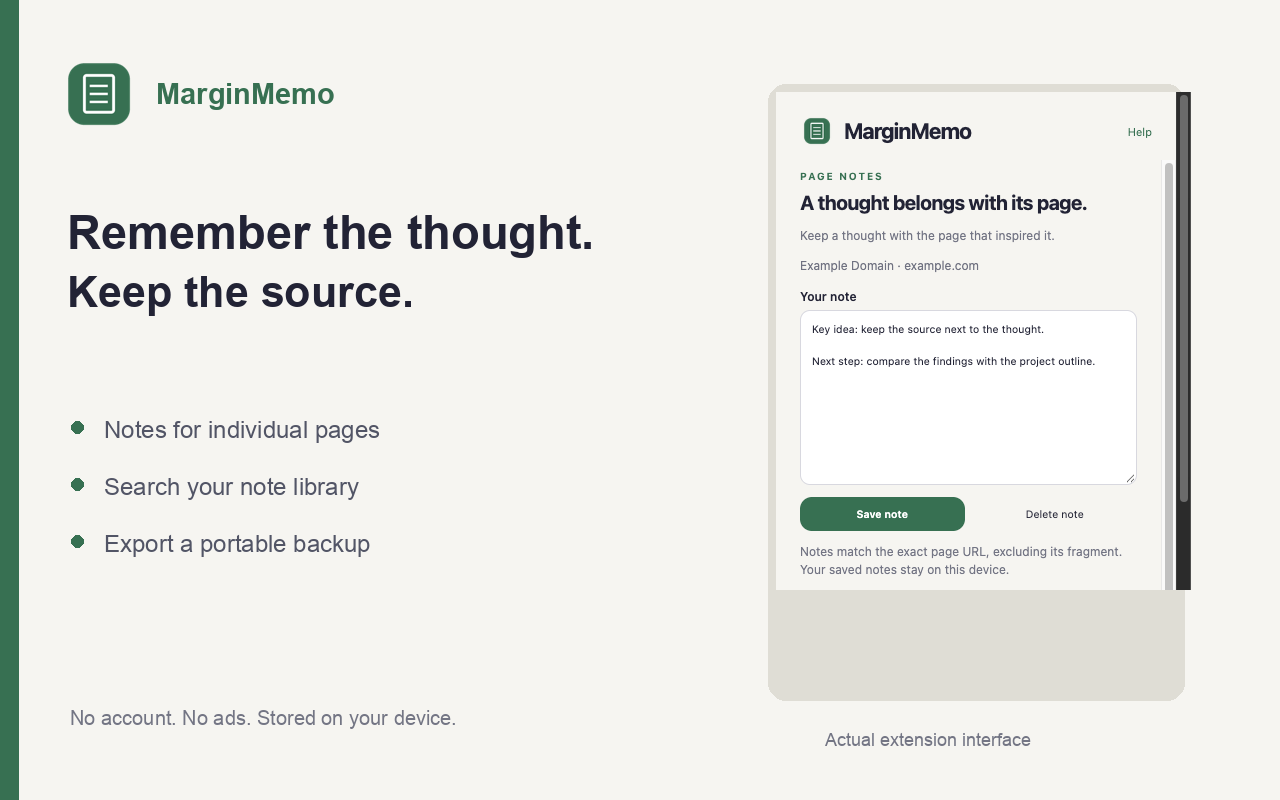
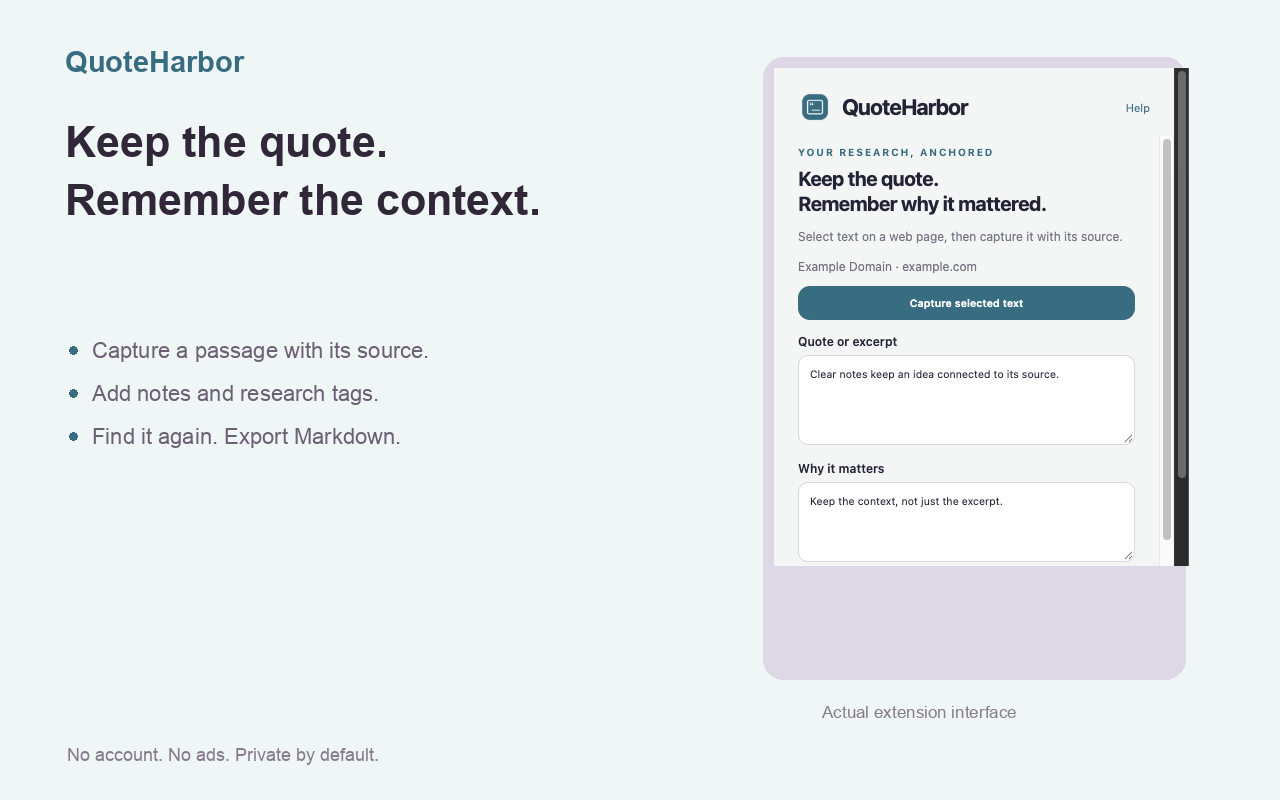
Launch new brand, expanded workflows, and store presentation

diff --git a/extension/library.js b/extension/library.js
@@ -1,4 +1,6 @@
-import {$,status,node,download,formatDate} from './shared.js';import {parseBackup} from './model.js';let notes=[];
-async function load(){notes=(await chrome.storage.local.get('notes')).notes||[];render();}
-function render(){const q=$('#search').value.toLowerCase();const list=notes.filter(n=>(n.text+' '+n.title+' '+n.url).toLowerCase().includes(q));$('#notes').replaceChildren();if(!list.length)$('#notes').append(node('div',notes.length?'No matching notes.':'Open a web page and use the extension popup to save your first note.','empty'));for(const n of list){const card=node('article',undefined,'card');card.append(node('h3',n.title),node('p',n.url+' · '+formatDate(n.updatedAt),'muted'));const text=node('textarea');text.value=n.text;text.maxLength=20000;text.setAttribute('aria-label','Edit note for '+n.title);card.append(text);const actions=node('div',undefined,'actions');const open=node('a','Open page');open.href=n.url;open.target='_blank';open.rel='noopener noreferrer';const save=node('button','Save changes','primary small');save.onclick=async()=>{try{if(!text.value.trim()){status('Use Delete to remove an empty note.');return;}const latest=(await chrome.storage.local.get('notes')).notes||[];await chrome.storage.local.set({notes:latest.map(x=>x.url===n.url?{...x,text:text.value,updatedAt:Date.now()}:x)});status('Changes saved.');}catch{status('Could not save. Storage may be full.');}};const del=node('button','Delete','danger small');del.onclick=async()=>{if(!confirm('Delete this note?'))return;try{const latest=(await chrome.storage.local.get('notes')).notes||[];await chrome.storage.local.set({notes:latest.filter(x=>x.url!==n.url)});await load();status('Note deleted.');}catch{status('Could not delete. Try again.');}};actions.append(open,save,del);card.append(actions);$('#notes').append(card);}}
-$('#search').oninput=render;$('#export').onclick=()=>download('marginmemo-backup.json',JSON.stringify({schema:'marginmemo/1',notes},null,2));$('#import').onclick=()=>$('#file').click();$('#file').onchange=async e=>{const f=e.target.files[0];if(!f)return;try{if(f.size>5000000)throw Error('Choose a backup smaller than 5 MB.');const imported=parseBackup(await f.text());const latest=(await chrome.storage.local.get('notes')).notes||[];const newNotes=imported.filter(n=>!latest.some(x=>x.url===n.url));if(latest.length+newNotes.length>1000)throw Error('Import would exceed 1,000 notes.');await chrome.storage.local.set({notes:[...newNotes,...latest]});await load();status(`Imported ${newNotes.length} notes. Existing page notes were kept.`);}catch(error){status(error.message||'Import failed.');}finally{e.target.value='';}};load().catch(()=>status('Could not load notes.'));
+import {$,status,node,download,formatDate,copy} from './shared.js';import {validateClips,markdownClips,normalizeTags} from './model.js';let clips=[];
+async function migrate(){const d=await chrome.storage.local.get(['clips','notes','migrated']);if(!d.migrated&&d.notes?.length){const migrated=d.notes.map(n=>({id:crypto.randomUUID(),url:n.url,title:n.title,quote:'',note:n.text,tags:['legacy-note'],createdAt:n.updatedAt||Date.now()}));await chrome.storage.local.set({clips:[...(d.clips||[]),...migrated],migrated:true});}}
+async function load(){clips=(await chrome.storage.local.get('clips')).clips||[];const tag=$('#tag-filter').value;$('#tag-filter').replaceChildren(node('option','All tags'));$('#tag-filter').firstChild.value='';for(const t of [...new Set(clips.flatMap(c=>c.tags))].sort()){const option=node('option',t);option.value=t;$('#tag-filter').append(option);}$('#tag-filter').value=tag;render();}
+function visible(){const q=$('#search').value.toLowerCase(),tag=$('#tag-filter').value;return clips.filter(c=>(!tag||c.tags.includes(tag))&&(c.quote+' '+c.note+' '+c.title+' '+c.url+' '+c.tags.join(' ')).toLowerCase().includes(q));}
+function render(){const list=visible();$('#notes').replaceChildren();if(!list.length)$('#notes').append(node('div',clips.length?'No matching clips.':'Select a passage on a web page, then capture it with QuoteHarbor. Your first idea starts here.','empty'));for(const c of list){const card=node('article',undefined,'card clip');const top=node('div',undefined,'note-title');top.append(node('h3',c.title),node('span',formatDate(c.createdAt),'muted'));card.append(top);if(c.quote){const quote=node('blockquote',c.quote);card.append(quote);}if(c.note)card.append(node('p',c.note,'clip-note'));const tags=node('div');tags.append(...c.tags.map(t=>node('span',t,'chip')));card.append(tags);const source=node('a',new URL(c.url).hostname+' ↗','source');source.href=c.url;source.target='_blank';source.rel='noopener noreferrer';card.append(source);const actions=node('div',undefined,'actions');const clipCopy=node('button','Copy Markdown','small');clipCopy.onclick=()=>copy(markdownClips([c]));const edit=node('button','Edit','quiet small');edit.onclick=()=>{if(card.querySelector('.editor'))return;const editor=node('div',undefined,'editor');const quote=node('textarea');quote.value=c.quote;quote.maxLength=20000;quote.setAttribute('aria-label','Edit quote');const note=node('textarea');note.value=c.note;note.maxLength=20000;note.setAttribute('aria-label','Edit note');const tagInput=node('input');tagInput.value=c.tags.join(', ');tagInput.maxLength=160;tagInput.setAttribute('aria-label','Edit tags');const save=node('button','Save changes','primary small');save.onclick=async()=>{if(!quote.value.trim()&&!note.value.trim()){status('Use Delete to remove an empty clip.');return;}try{const latest=(await chrome.storage.local.get('clips')).clips||[];await chrome.storage.local.set({clips:latest.map(x=>x.id===c.id?{...x,quote:quote.value,note:note.value,tags:normalizeTags(tagInput.value)}:x)});await load();status('Clip updated.');}catch{status('Could not save changes.');}};editor.append(quote,note,tagInput,save);card.append(editor);};const del=node('button','Delete','danger small');del.onclick=async()=>{if(!confirm('Delete this quote and note?'))return;try{const latest=(await chrome.storage.local.get('clips')).clips||[];await chrome.storage.local.set({clips:latest.filter(x=>x.id!==c.id)});await load();status('Clip deleted.');}catch{status('Could not delete.');}};actions.append(clipCopy,edit,del);card.append(actions);$('#notes').append(card);}}
+$('#search').oninput=render;$('#tag-filter').onchange=render;$('#markdown').onclick=()=>download('quoteharbor-research.md',markdownClips(visible()),'text/markdown');$('#export').onclick=()=>download('quoteharbor-backup.json',JSON.stringify({schema:'quoteharbor/1',clips},null,2));$('#import').onclick=()=>$('#file').click();$('#file').onchange=async ev=>{const file=ev.target.files[0];if(!file)return;try{if(file.size>5000000)throw Error('Choose a backup smaller than 5 MB.');const imported=validateClips(JSON.parse(await file.text()));const latest=(await chrome.storage.local.get('clips')).clips||[];if(latest.length+imported.length>1000)throw Error('Import would exceed 1,000 clips.');await chrome.storage.local.set({clips:[...imported,...latest]});await load();status(`Imported ${imported.length} clips.`);}catch(error){status(error.message||'Import failed.');}finally{ev.target.value='';}};migrate().then(load).catch(()=>status('Could not load the research library.'));

diff --git a/extension/popup.js b/extension/popup.js
@@ -1,5 +1,5 @@
-import {$,status} from './shared.js';import {pageKey} from './model.js';let page;
-async function init(){try{const [tab]=await chrome.tabs.query({active:true,currentWindow:true});page={url:pageKey(tab?.url),title:String(tab.title||tab.url).slice(0,300)};$('#page').textContent=page.title+' · '+new URL(page.url).hostname;const {notes=[]}=await chrome.storage.local.get('notes');$('#note').value=notes.find(n=>n.url===page.url)?.text||'';status('Changes are saved when you choose Save note.');}catch{page=null;$('#page').textContent='Open a web page to write a note. Your saved notes are available in the library.';$('#note').disabled=true;$('#save').disabled=true;$('#delete').disabled=true;}}
-$('#save').onclick=async()=>{if(!page)return;try{const text=$('#note').value;if(!text.trim()){status('Write a note first, or use Delete note.');return;}const {notes=[]}=await chrome.storage.local.get('notes');if(notes.length>=1000&&!notes.some(n=>n.url===page.url)){status('You have 1,000 notes. Export and remove old notes first.');return;}await chrome.storage.local.set({notes:[{...page,text,updatedAt:Date.now()},...notes.filter(n=>n.url!==page.url)]});status('Saved on this device.');}catch{status('Could not save. Storage may be full; export and remove older notes.');}};
-$('#delete').onclick=async()=>{if(!page||!confirm('Delete the saved note for this page?'))return;try{const {notes=[]}=await chrome.storage.local.get('notes');await chrome.storage.local.set({notes:notes.filter(n=>n.url!==page.url)});$('#note').value='';status('Note deleted.');}catch{status('Could not delete. Try again.');}};
+import {$,status} from './shared.js';import {pageKey,normalizeTags} from './model.js';let page,tabId;
+async function init(){try{const [tab]=await chrome.tabs.query({active:true,currentWindow:true});page={url:pageKey(tab?.url),title:String(tab.title||tab.url).slice(0,300)};tabId=tab.id;$('#page').textContent=page.title+' · '+new URL(page.url).hostname;}catch{page=null;$('#page').textContent='Open a web page to capture a source. Your saved clips are in the library.';$('#capture').disabled=true;$('#save').disabled=true;}}
+$('#capture').onclick=async()=>{if(!page)return;try{const result=await chrome.scripting.executeScript({target:{tabId},func:()=>window.getSelection()?.toString()||''});const text=result[0]?.result?.trim()||'';if(!text){status('Select a passage on the web page first. You can also paste a quote.');return;}if(text.length>20000){status('Select a passage shorter than 20,000 characters.');return;}$('#quote').value=text;status('Selection captured. Add your note, then save.');}catch{status('This page does not allow selection capture. Paste the text manually.');}};
+$('#save').onclick=async()=>{if(!page)return;const quote=$('#quote').value.trim(),note=$('#note').value.trim();if(!quote&&!note){status('Add a quote or a note before saving.');return;}$('#save').disabled=true;try{const {clips=[]}=await chrome.storage.local.get('clips');if(clips.length>=1000){status('Library is full. Export and remove older clips.');return;}await chrome.storage.local.set({clips:[{id:crypto.randomUUID(),...page,quote,note,tags:normalizeTags($('#tags').value),createdAt:Date.now()},...clips]});$('#quote').value='';$('#note').value='';status('Saved with its source in your local library.');}catch{status('Could not save. Storage may be full.');}finally{$('#save').disabled=false;}};
 $('#library').onclick=()=>chrome.tabs.create({url:chrome.runtime.getURL('library.html')});init();

diff --git a/extension/popup.html b/extension/popup.html
@@ -1,1 +1,1 @@
-<!doctype html><html lang="en"><head><meta charset="utf-8"><meta name="viewport" content="width=device-width,initial-scale=1"><title>MarginMemo</title><link rel="stylesheet" href="style.css"></head><body><header><div><img src="icons/icon48.png" alt=""><h1>MarginMemo</h1></div><a class="brand-link" href="privacy.html" target="_blank">Help</a></header><main><div class="eyebrow">PAGE NOTES</div><h2>A thought belongs with its page.</h2><p class="muted">Keep a thought with the page that inspired it.</p><div id="page" class="page-info">Reading the current page…</div><label for="note">Your note</label><textarea id="note" style="min-height:175px" placeholder="Key ideas, questions, next steps…" maxlength="20000"></textarea><div class="row" style="margin-top:10px"><button id="save" class="primary">Save note</button><button id="delete" class="quiet">Delete note</button></div><p class="muted">Notes match the exact page URL, excluding its fragment. Your saved notes stay on this device.</p><button id="library" style="width:100%">Open note library</button><p id="status" class="status" role="status" aria-live="polite"></p></main><footer><span>Private by default · Stored locally</span><span>1.0.0</span></footer><script type="module" src="popup.js"></script></body></html>
+<!doctype html><html lang="en"><head><meta charset="utf-8"><meta name="viewport" content="width=device-width,initial-scale=1"><title>QuoteHarbor</title><link rel="stylesheet" href="style.css"></head><body><header><div><img src="icons/icon48.png" alt=""><h1>QuoteHarbor</h1></div><a class="brand-link" href="privacy.html" target="_blank">Help</a></header><main><div class="eyebrow">YOUR RESEARCH, ANCHORED</div><h2>Keep the quote.<br>Remember why it mattered.</h2><p class="muted">Select text on a web page, then capture it with its source.</p><div id="page" class="page-info">Reading the current page…</div><button id="capture" class="primary full" style="margin-top:10px">Capture selected text</button><label for="quote">Quote or excerpt</label><textarea id="quote" maxlength="20000" placeholder="Capture a selection or paste a quote…" style="min-height:90px"></textarea><label for="note">Why it matters</label><textarea id="note" maxlength="20000" placeholder="Your interpretation, questions, or next step…" style="min-height:80px"></textarea><label for="tags">Tags (comma separated)</label><input id="tags" maxlength="160" placeholder="research, design, to-read"><div class="row" style="margin-top:12px"><button id="save" class="primary">Save to library</button><button id="library">Open library</button></div><p id="status" class="status" role="status" aria-live="polite"></p></main><footer><span>Private by default · Stored locally</span><span>1.1.0</span></footer><script type="module" src="popup.js"></script></body></html>

diff --git a/extension/model.js b/extension/model.js
@@ -1,2 +1,6 @@
 export function pageKey(value){const u=new URL(value);if(!['http:','https:'].includes(u.protocol))throw Error('Notes are available for HTTP and HTTPS pages.');if(u.username||u.password)throw Error('Notes are unavailable for URLs containing credentials.');u.hash='';return u.href;}
-export function parseBackup(text){const data=JSON.parse(text);if(data.schema!=='marginmemo/1'||!Array.isArray(data.notes)||data.notes.length>1000)throw Error('Not a MarginMemo backup (maximum 1,000 notes).');const seen=new Set();return data.notes.map(n=>{const url=pageKey(n.url);if(typeof n.text!=='string'||n.text.length>20000)throw Error('Invalid note text.');if(seen.has(url))throw Error('Backup contains duplicate page URLs.');seen.add(url);return {url,title:String(n.title||url).slice(0,300),text:n.text,updatedAt:Date.now()};});}
+export function parseBackup(text){const data=JSON.parse(text);if(data.schema!=='marginmemo/1'||!Array.isArray(data.notes)||data.notes.length>1000)throw Error('Not a QuoteHarbor backup (maximum 1,000 notes).');const seen=new Set();return data.notes.map(n=>{const url=pageKey(n.url);if(typeof n.text!=='string'||n.text.length>20000)throw Error('Invalid note text.');if(seen.has(url))throw Error('Backup contains duplicate page URLs.');seen.add(url);return {url,title:String(n.title||url).slice(0,300),text:n.text,updatedAt:Date.now()};});}
+
+export function normalizeTags(value){return [...new Set(String(value||'').split(',').map(t=>t.trim().toLowerCase()).filter(Boolean))].slice(0,12).map(t=>t.slice(0,30));}
+export function validateClips(data){if(data.schema!=='quoteharbor/1'||!Array.isArray(data.clips)||data.clips.length>1000)throw Error('Not a QuoteHarbor backup (maximum 1,000 clips).');return data.clips.map(c=>{const url=pageKey(c.url);if(typeof c.quote!=='string'||typeof c.note!=='string'||c.quote.length>20000||c.note.length>20000||!c.quote.trim()&&!c.note.trim())throw Error('Invalid clip text.');return {id:crypto.randomUUID(),url,title:String(c.title||url).slice(0,300),quote:c.quote,note:c.note,tags:normalizeTags(Array.isArray(c.tags)?c.tags.join(','):''),createdAt:Number.isFinite(c.createdAt)?c.createdAt:Date.now()};});}
+export function markdownClips(clips){return clips.map(c=>{const title=String(c.title).replace(/[\r\n]/g,' ');const quote=c.quote?c.quote.split(/\r?\n/).map(l=>'> '+l).join('\n')+'\n\n':'';return '## '+title+'\n\n'+quote+(c.note?c.note+'\n\n':'')+'Source: <'+c.url.replace(/>/g,'%3E')+'>\nCaptured: '+new Date(c.createdAt).toISOString().slice(0,10)+(c.tags.length?'\nTags: '+c.tags.join(', '):'')+'\n';}).join('\n');}

diff --git a/extension/library.html b/extension/library.html
@@ -1,1 +1,1 @@
-<!doctype html><html lang="en"><head><meta charset="utf-8"><meta name="viewport" content="width=device-width,initial-scale=1"><title>MarginMemo — Note library</title><link rel="stylesheet" href="style.css"></head><body class="library"><header><div><img src="icons/icon48.png" alt=""><h1>MarginMemo</h1></div><a href="privacy.html">Privacy & help</a></header><main><div class="eyebrow">YOUR NOTE LIBRARY</div><h2>Pick up your train of thought.</h2><p class="muted">Search notes, return to their pages, and export a portable backup.</p><label for="search">Search your notes</label><input id="search" type="search" placeholder="Search text, page titles, or URLs"><div class="row" style="margin-top:15px"><button id="export">Export backup</button><button id="import">Import backup</button></div><input id="file" type="file" accept=".json" hidden><p id="status" class="status" role="status" aria-live="polite"></p><div id="notes" class="cards"></div></main><footer><span>Stored on this device</span><span>1.0.0</span></footer><script type="module" src="library.js"></script></body></html>
+<!doctype html><html lang="en"><head><meta charset="utf-8"><meta name="viewport" content="width=device-width,initial-scale=1"><title>QuoteHarbor — Research library</title><link rel="stylesheet" href="style.css"></head><body class="library"><header><div><img src="icons/icon48.png" alt=""><h1>QuoteHarbor</h1></div><a href="privacy.html">Privacy & help</a></header><main><div class="eyebrow">YOUR PRIVATE RESEARCH LIBRARY</div><h2>Good ideas deserve a safe harbor.</h2><p class="muted">Search quotes, notes, sources, and tags. Export Markdown for your writing or JSON for a backup.</p><div class="row"><div><label for="search">Search clips</label><input id="search" type="search" placeholder="Find a quote, note, or source"></div><div><label for="tag-filter">Tag</label><select id="tag-filter"><option value="">All tags</option></select></div></div><div class="actions"><button id="markdown" class="primary">Export Markdown</button><button id="export">Export backup</button><button id="import">Import backup</button></div><input id="file" type="file" accept=".json" hidden><p id="status" class="status" role="status" aria-live="polite"></p><div id="notes" class="cards"></div></main><footer><span>Stored on this device · No account</span><span>1.1.0</span></footer><script type="module" src="library.js"></script></body></html>

diff --git a/tests/model.test.js b/tests/model.test.js
@@ -2,3 +2,5 @@ import {test} from 'node:test';import assert from 'node:assert/strict';import {p
 test('notes share fragment navigation but preserve functional queries',()=>{assert.equal(pageKey('https://example.com/article?id=2#part'),'https://example.com/article?id=2');assert.notEqual(pageKey('https://example.com/article?id=2'),pageKey('https://example.com/article?id=3'));});
 test('rejects unsafe and credential-bearing note targets',()=>{for(const u of ['javascript:alert(1)','file:///test','https://user:pass@example.com'])assert.throws(()=>pageKey(u));});
 test('validates backup sizes, duplicates, and note text',()=>{assert.throws(()=>parseBackup('{}'));assert.throws(()=>parseBackup(JSON.stringify({schema:'marginmemo/1',notes:[{url:'https://example.com',text:'a'.repeat(20001)}]})));assert.throws(()=>parseBackup(JSON.stringify({schema:'marginmemo/1',notes:[{url:'https://example.com#one',text:'a'},{url:'https://example.com#two',text:'b'}]})));const r=parseBackup(JSON.stringify({schema:'marginmemo/1',notes:[{url:'https://example.com',title:'Example',text:'Private note'}]}));assert.equal(r[0].text,'Private note');});
+import {validateClips,markdownClips,normalizeTags} from '../extension/model.js';
+test('quote backups validate sources and preserve multiple clips on one page',()=>{const clip={url:'https://example.com',title:'Source',quote:'One line',note:'Context',tags:['Research','research'],createdAt:1};const result=validateClips({schema:'quoteharbor/1',clips:[clip,clip]});assert.equal(result.length,2);assert.notEqual(result[0].id,result[1].id);assert.deepEqual(result[0].tags,['research']);assert.throws(()=>validateClips({schema:'quoteharbor/1',clips:[{...clip,url:'javascript:bad'}]}));assert.ok(markdownClips(result).includes('> One line'));assert.ok(markdownClips(result).includes('Source: <https://example.com/>'));assert.deepEqual(normalizeTags(' Work, work, Reading '),['work','reading']);});

diff --git a/extension/style.css b/extension/style.css
@@ -2,3 +2,5 @@
 :root{ --accent:#377052; }
 
 body:not(.library){height:600px;display:flex;flex-direction:column}body:not(.library) main{flex:1;overflow-y:auto;min-height:0}body:not(.library) header,body:not(.library) footer{flex-shrink:0}.library{display:block;height:auto}
+
+:root{--accent:#386c80;background:#f3f6f5}.full{width:100%}.clip blockquote{margin:15px 0;padding:12px 16px;border-left:3px solid #8baab4;background:#f5f8f9;white-space:pre-wrap;font-family:Georgia,serif;font-size:16px;line-height:1.7}.clip-note{white-space:pre-wrap;font-size:13px}.source{display:block;margin-top:12px;font-size:12px}.editor textarea,.editor input,.editor button{margin-top:10px}.primary{background:var(--accent)}.library main{padding-bottom:40px}

diff --git a/scripts/package.py b/scripts/package.py
@@ -14,7 +14,7 @@ out.parent.mkdir(exist_ok=True)
 with ZipFile(out,'w',ZIP_DEFLATED) as z:
  for p in sorted(source.rglob('*')):
   if p.is_file() and not p.name.startswith('.'):
-   assert p.suffix in {'.json','.html','.css','.js','.png'}
+   assert p.suffix in {'.json','.html','.css','.js','.png','.svg'}
    z.write(p,p.relative_to(source))
 with ZipFile(out) as z: assert z.testzip() is None
 print(f"Validated {m['name']}; created {out.relative_to(ROOT)} ({out.stat().st_size} bytes)")

diff --git a/README.md b/README.md
@@ -1,39 +1,40 @@
-# MarginMemo
+# QuoteHarbor
 
-A thought belongs with its page.
+Good ideas deserve a safe harbor.
 
-Keep private notes for the pages you visit. Search your page notes, export a backup, and keep your research in one place.
+QuoteHarbor saves selected web passages with their source, your interpretation, and tags. Build a private research library, find a thought again, and export Markdown when it is time to write.
+
+## Features
+
+- Capture selected text from the current web page or paste a quote.
+- Attach a source URL, a note, and tags to every clip.
+- Save multiple clips from the same page.
+- Search quotes, notes, titles, URLs, and tags in a local library.
+- Edit clips, reopen source pages, and copy individual clips as Markdown.
+- Export filtered Markdown or JSON backups; import valid backups.
+
+## Limits
+
+Stores up to 1,000 clips, with quotes and notes limited to 20,000 characters each. Capture works on permitted HTTP and HTTPS pages. Some pages, embedded frames, and browser PDF viewers do not allow capture; paste text manually when needed. QuoteHarbor does not highlight websites permanently, create verified academic citations, summarize with AI, or sync to a cloud. Existing MarginMemo notes migrate to the library on first open.
 
 ## Development
 
-Open `chrome://extensions`, enable Developer mode, choose **Load unpacked**, and select `extension/`. No build or package dependencies are needed.
+Open `chrome://extensions`, enable Developer mode, choose **Load unpacked**, and select `extension/`. All runtime assets are packaged locally.
 
-Run `npm test` for logic tests and `npm run package` to validate and create a clean ZIP in `dist/`.
+Run `npm test` for logic tests. Run `npm run package` to validate and create an upload ZIP in `dist/`. No build step or runtime package dependencies are required.
 
 ## Privacy
 
-See [PRIVACY.md](PRIVACY.md) for stored data and permission explanations. No accounts, analytics, ads, or developer servers.
+Local data includes captured quote text, user-written notes, tags, source page titles and URLs, and timestamps. Capturing reads only the current selection in the top page frame when explicitly requested.
+
+`activeTab` temporarily accesses the current page after you invoke the extension. `scripting` reads the selected text only when you choose Capture selected text. `storage` saves the library on your device. No background website scanning occurs.
+
+See [PRIVACY.md](PRIVACY.md). No developer servers, advertising, or analytics.
 
 ## Support
 
-Report bugs through this repository's issue tracker. Include reproducible steps and the extension version, with private information removed.
+Report reproducible bugs through this repository's issue tracker. Remove private information first.
 
 ## License
 
 MIT.
-
-## Features and limits
-
-MarginMemo keeps your thoughts next to the pages that inspired them. Save a note for the current page, then search your note library when you need it again.
-
-FEATURES
-- One private note per web page, up to 20,000 characters each.
-- A searchable library for up to 1,000 page notes.
-- Edit saved notes and reopen their source pages.
-- Export a JSON backup and import it without overwriting existing page notes.
-- No accounts, cloud sync, ads, or analytics.
-
-Open a web page, click MarginMemo, write your note, and choose Save note. Notes match the page URL excluding its fragment; distinct query strings count as distinct pages. Changes are saved explicitly with the Save controls. Notes are not inserted into websites and page content is not read.
-
-PRIVACY
-Notes, page URLs, titles, and update times stay in local extension storage. Exported backups may contain sensitive notes or private URLs; keep them somewhere you trust. Uninstalling removes local notes.

diff --git a/store/listing.md b/store/listing.md
@@ -1,8 +1,8 @@
-# MarginMemo
+# QuoteHarbor
 
 ## Category
 
-Productivity
+Workflow & Planning
 
 ## Language
 
@@ -10,16 +10,23 @@ English
 
 ## Description
 
-MarginMemo keeps your thoughts next to the pages that inspired them. Save a note for the current page, then search your note library when you need it again.
+Good ideas deserve a safe harbor.
+
+QuoteHarbor saves selected web passages with their source, your interpretation, and tags. Build a private research library, find a thought again, and export Markdown when it is time to write.
 
 FEATURES
-- One private note per web page, up to 20,000 characters each.
-- A searchable library for up to 1,000 page notes.
-- Edit saved notes and reopen their source pages.
-- Export a JSON backup and import it without overwriting existing page notes.
-- No accounts, cloud sync, ads, or analytics.
+- Capture selected text from the current web page or paste a quote.
+- Attach a source URL, a note, and tags to every clip.
+- Save multiple clips from the same page.
+- Search quotes, notes, titles, URLs, and tags in a local library.
+- Edit clips, reopen source pages, and copy individual clips as Markdown.
+- Export filtered Markdown or JSON backups; import valid backups.
 
-Open a web page, click MarginMemo, write your note, and choose Save note. Notes match the page URL excluding its fragment; distinct query strings count as distinct pages. Changes are saved explicitly with the Save controls. Notes are not inserted into websites and page content is not read.
+GOOD TO KNOW
+Stores up to 1,000 clips, with quotes and notes limited to 20,000 characters each. Capture works on permitted HTTP and HTTPS pages. Some pages, embedded frames, and browser PDF viewers do not allow capture; paste text manually when needed. QuoteHarbor does not highlight websites permanently, create verified academic citations, summarize with AI, or sync to a cloud. Existing MarginMemo notes migrate to the library on first open.
 
-PRIVACY
-Notes, page URLs, titles, and update times stay in local extension storage. Exported backups may contain sensitive notes or private URLs; keep them somewhere you trust. Uninstalling removes local notes.
+PRIVATE BY DEFAULT
+No account, analytics, advertising, cloud synchronization, or developer servers. Processing happens on your device. Saved data uses local extension storage. Exported files may contain private information; keep them somewhere you trust.
+
+SUPPORT
+Report bugs or suggestions through the support link. Please remove private URLs, notes, and credentials from reports.

diff --git a/PRIVACY.md b/PRIVACY.md
@@ -1,22 +1,21 @@
-# MarginMemo privacy policy
+# QuoteHarbor privacy policy
 
 Effective date: 2026-10-16.
 
-## Data and processing
+## Local data and processing
 
-Note text, associated page URL and title, and last-update timestamp.
+Local data includes captured quote text, user-written notes, tags, source page titles and URLs, and timestamps. Capturing reads only the current selection in the top page frame when explicitly requested.
 
-All processing happens within the extension on your device. We do not collect, receive, transmit, sell, or share personal data. The extension has no analytics, advertising, remote executable code, developer server, or account requirement.
+Processing happens on your device. The developer does not receive, sell, or transmit this data. The extension has no developer servers, accounts, cloud sync, analytics, advertising, or remote executable code. Local processing can involve sensitive text or URLs supplied by you; the store disclosures describe the data handled by the extension even though it is not sent to the developer.
 
 ## Permissions
 
-- `activeTab`: read the current page URL and title when you invoke the popup. The extension does not read page content.
-- `storage`: save your notes locally.
+`activeTab` temporarily accesses the current page after you invoke the extension. `scripting` reads the selected text only when you choose Capture selected text. `storage` saves the library on your device. No background website scanning occurs.
 
 ## Retention and control
 
-Local data remains until you remove it through the app, clear extension data, or uninstall the extension. Export and delete controls are available for saved collections and notes. Exported files are controlled by you and may contain private information. Chrome and the Web Store have separate Google privacy policies.
+Local saved data remains until you delete it, clear extension data, or uninstall the extension. Exported files and clipboard contents are controlled by you. The library and collection tools provide delete and backup controls. LinkLoom keeps no persistent link history. FocusPet retains up to 90 days of daily counts and a lifetime companion total. Chrome and its Web Store have separate Google privacy policies.
 
 ## Contact
 
-Use the repository issue tracker or the Chrome Web Store support contact for privacy questions. Do not post private data in public issues.
+Use this repository's issue tracker or the Chrome Web Store support contact for privacy questions. Do not post private content in public issues.

diff --git a/store/asset-notes.md b/store/asset-notes.md
@@ -1,0 +1,5 @@
+# Store assets
+
+Promotional artwork uses the extension's original vector and geometric mascot system. Overview images combine promotional typography with an actual isolated-browser UI capture. Capture content uses fictional example domains and local data. No user account information is included.
+
+Required assets: RGB PNG overview at 1280×800 and small promotional tile at 440×280. Optional marquee: RGB PNG at 1400×560. Icons use RGBA PNG at 16, 32, 48, and 128 pixels.
